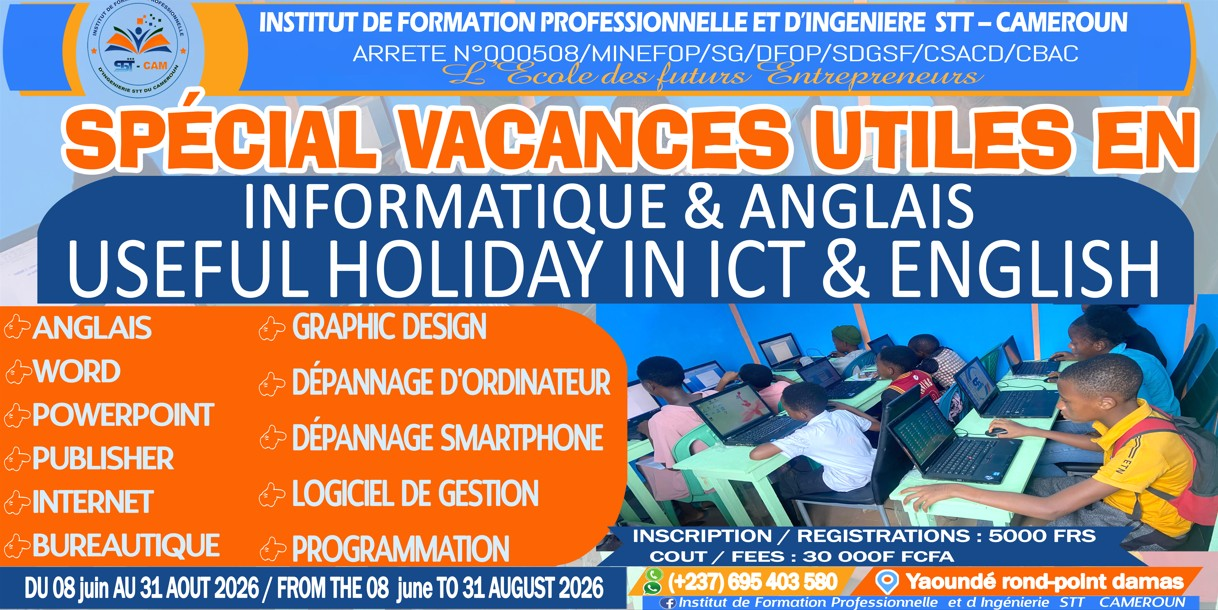
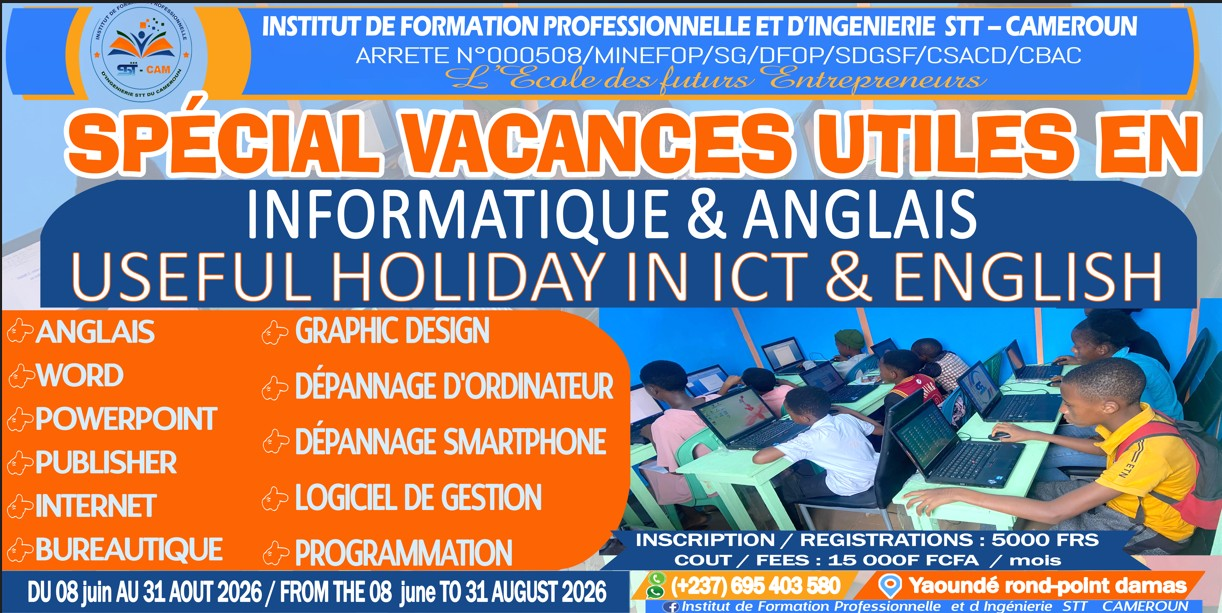
replaced the vacances utiles flyer with correct pricing

diff --git a/index.html b/index.html
@@ -465,7 +465,7 @@
     <div class="legal-top-bar">
         <span><i class="fas fa-file-contract"></i> <span class="legal-label">RCCM:</span> <strong>RC/YAO/2024/B/522</strong></span>
         <span><i class="fas fa-fingerprint"></i> <span class="legal-label">NIU:</span> <strong>M022416498543H</strong></span>
-        <span><i class="fas fa-building"></i> <span class="legal-label">Groupe:</span> <strong>Groupe STT</strong></span>
+        <span><i class="fas fa-building"></i> <span class="legal-label">Groupe STT</span> 
     </div>
 
     <nav>
